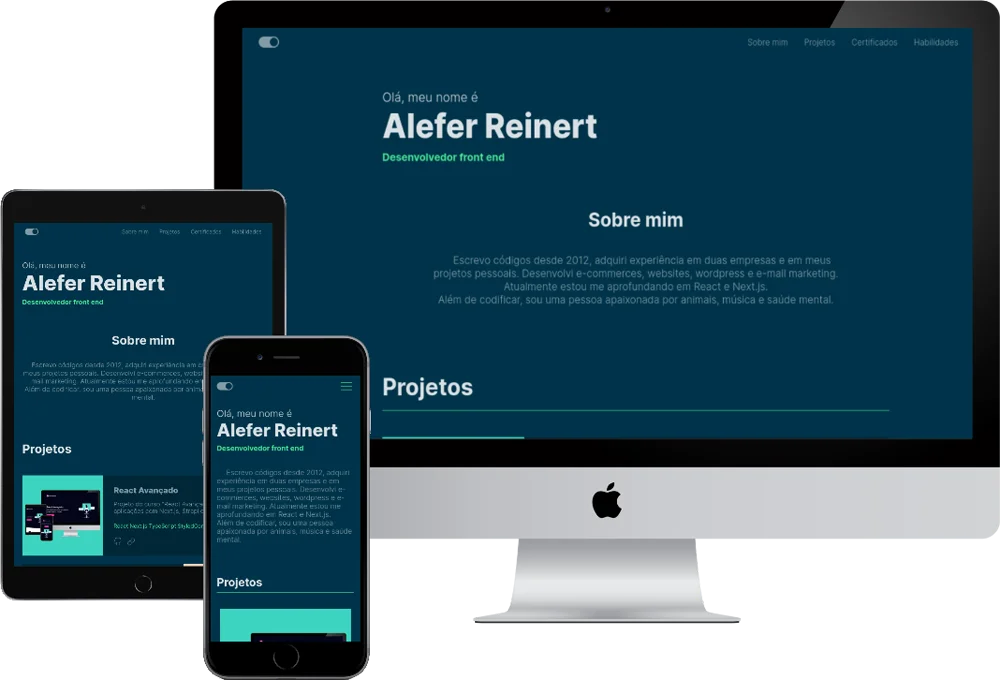
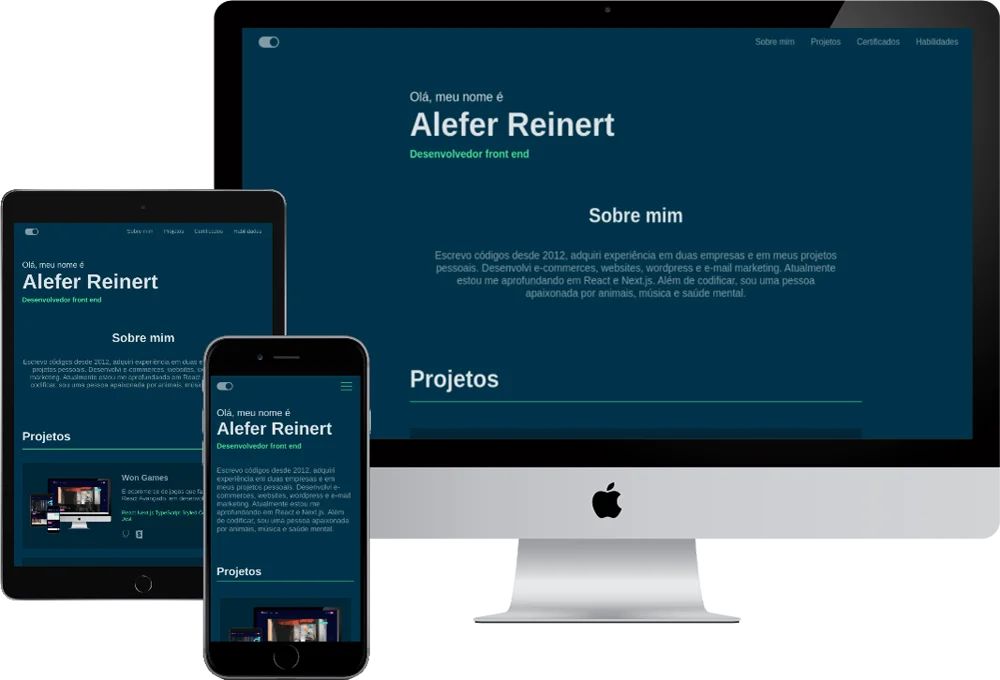
Update images

diff --git a/src/content/content.tsx b/src/content/content.tsx
@@ -71,7 +71,7 @@ export const projects = [
     skills: 'React Next.js TypeScript Styled Components Storybook Jest',
     repositoryLink: 'https://github.com/AleferReinert/portfolio',
     storybookLink: 'https://64cd32980293c902cb6e27ce-alwameemnu.chromatic.com',
-    img: 'https://res.cloudinary.com/devalefer/image/upload/v1691282513/portfolio/projects/portfolio_vwzlzk.webp'
+    img: 'https://res.cloudinary.com/devalefer/image/upload/v1691438016/portfolio/projects/portfolio_koavvj.webp'
   },
   {
     title: 'Landing Page',

diff --git a/src/pages/_app.tsx b/src/pages/_app.tsx
@@ -32,7 +32,7 @@ export default function App({ Component, pageProps }: AppProps) {
         />
         <meta
           property='og:image'
-          content='https://res.cloudinary.com/devalefer/image/upload/v1689779983/portfolio/projects/portfolio_hukteg.webp'
+          content='https://res.cloudinary.com/devalefer/image/upload/v1691437893/portfolio/social-share_pkmpl3.webp'
         />
         <meta property='og:image:width' content='1200' />
         <meta property='og:image:height' content='630' />
